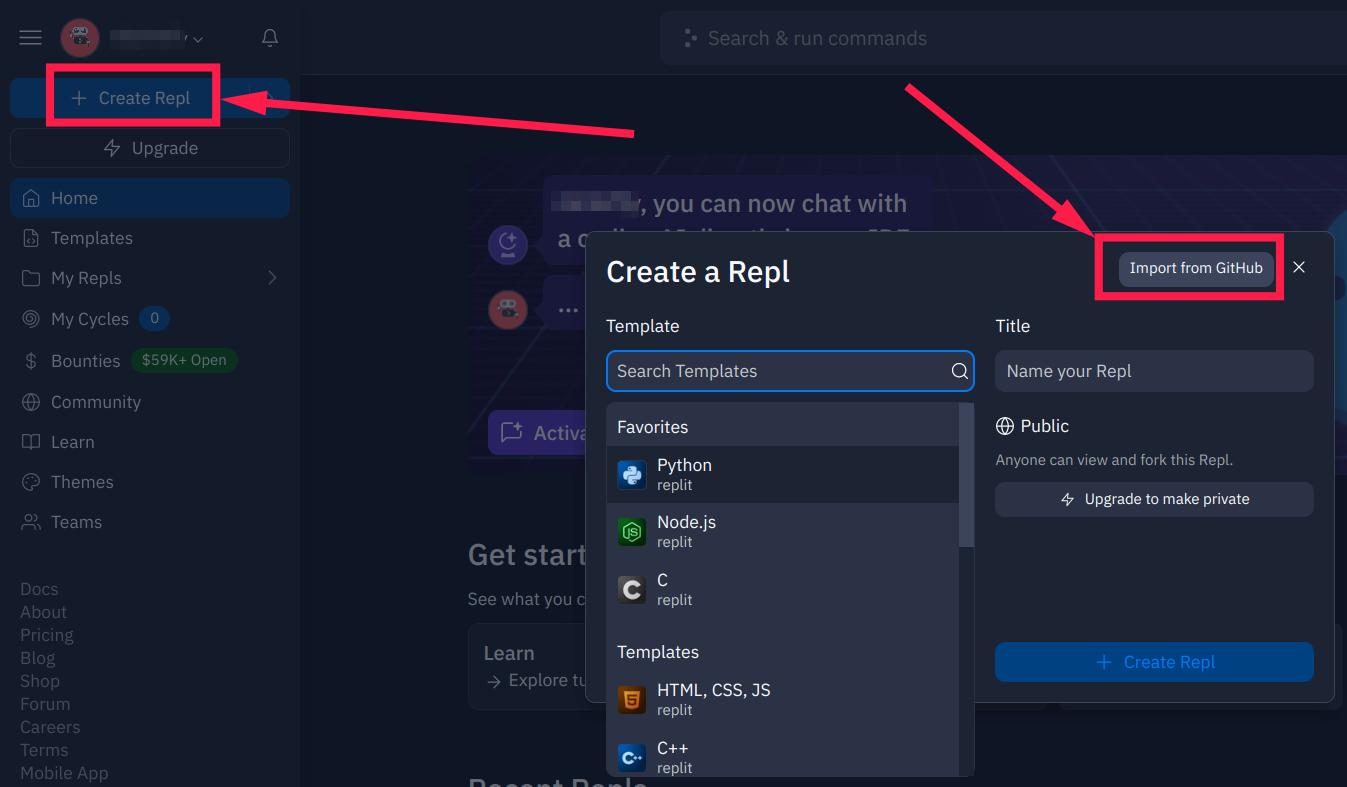
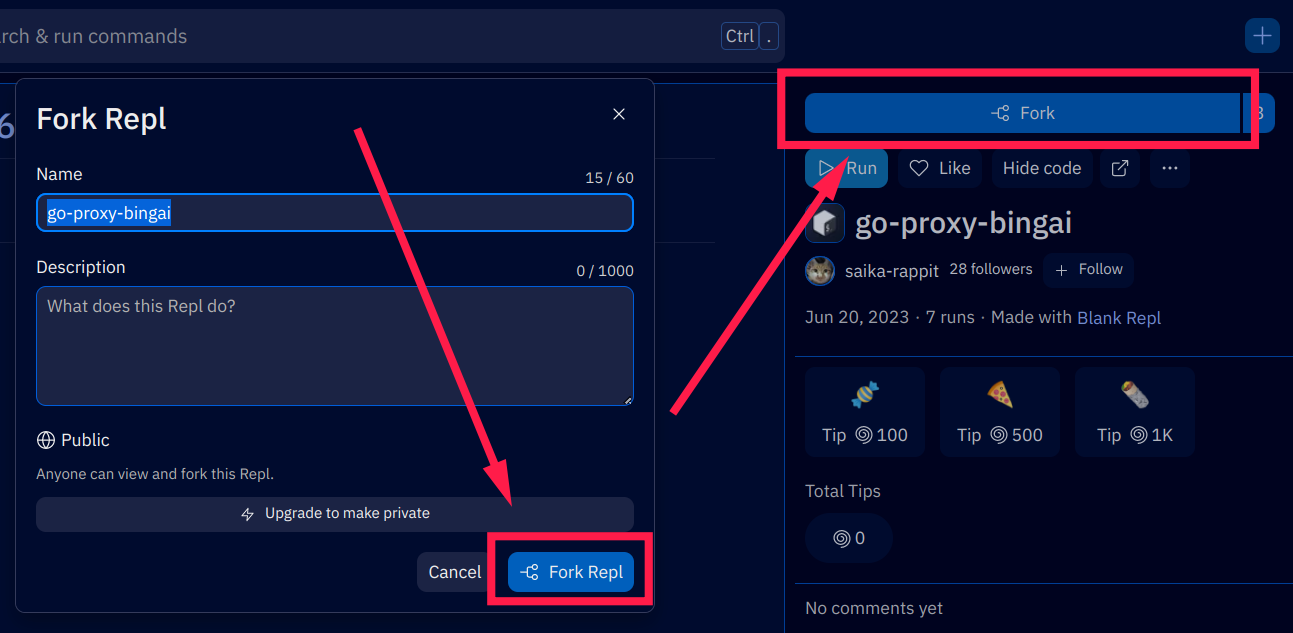
update

diff --git a/README.md b/README.md
@@ -207,25 +207,19 @@ RAILWAY_DOCKERFILE_PATH=docker/Dockerfile
 
 ### Replit
 
-> ⭐ 似乎没有一键部署，不过按照下面的方法也很简单！
-
 - [点击此处登录](https://replit.com/login)，可使用 Github 账户
 
-- 然后在如下页面中，依次点击 *+ Create Repl* > *Import from GitHub*
+- 然后 [点击此处前往页面](https://replit.com/@saika-rappit/go-proxy-bingai?v=1#README.md) ，依次点击 *Fork* - *Fork Repl*
 
-![依次点击 *+ Create Repl* - *Import from GitHub*](./docs/img/replit-1.png)
-
-- 然后在如下页面中，*GitHub URL* 一项输入`adams549659584/go-proxy-bingai`，*Language* 一项选择`Go`，然后点击 *Import from GitHub* 按钮
-
-![*GitHub URL* 一项输入`adams549659584/go-proxy-bingai`，*Language* 一项选择 `Go`，然后点击 *Import from GitHub* 按钮](./docs/img/replit-2.png)
+![依次点击 *Fork* - *Fork Repl*](./docs/img/replit-1.png)
 
 - 稍等片刻后，点击 *Run* 按钮
 
-![点击 *Run* 按钮](./docs/img/replit-3.png)
+![点击 *Run* 按钮](./docs/img/replit-2.png)
 
 - 等待部署完后，会自动弹出网页预览窗口，**将预览窗口的 URL 复制到浏览器使用即可**。旁边的 “笔” 按钮可自定义域名。
 
-![预览窗口中的 URL 可直接复制到浏览器使用，旁边的 “笔” 按钮可自定义域名](./docs/img/replit-4.png)
+![预览窗口中的 URL 可直接复制到浏览器使用，旁边的 “笔” 按钮可自定义域名](./docs/img/replit-3.png)
 
 ## 部署聊天服务器
 
